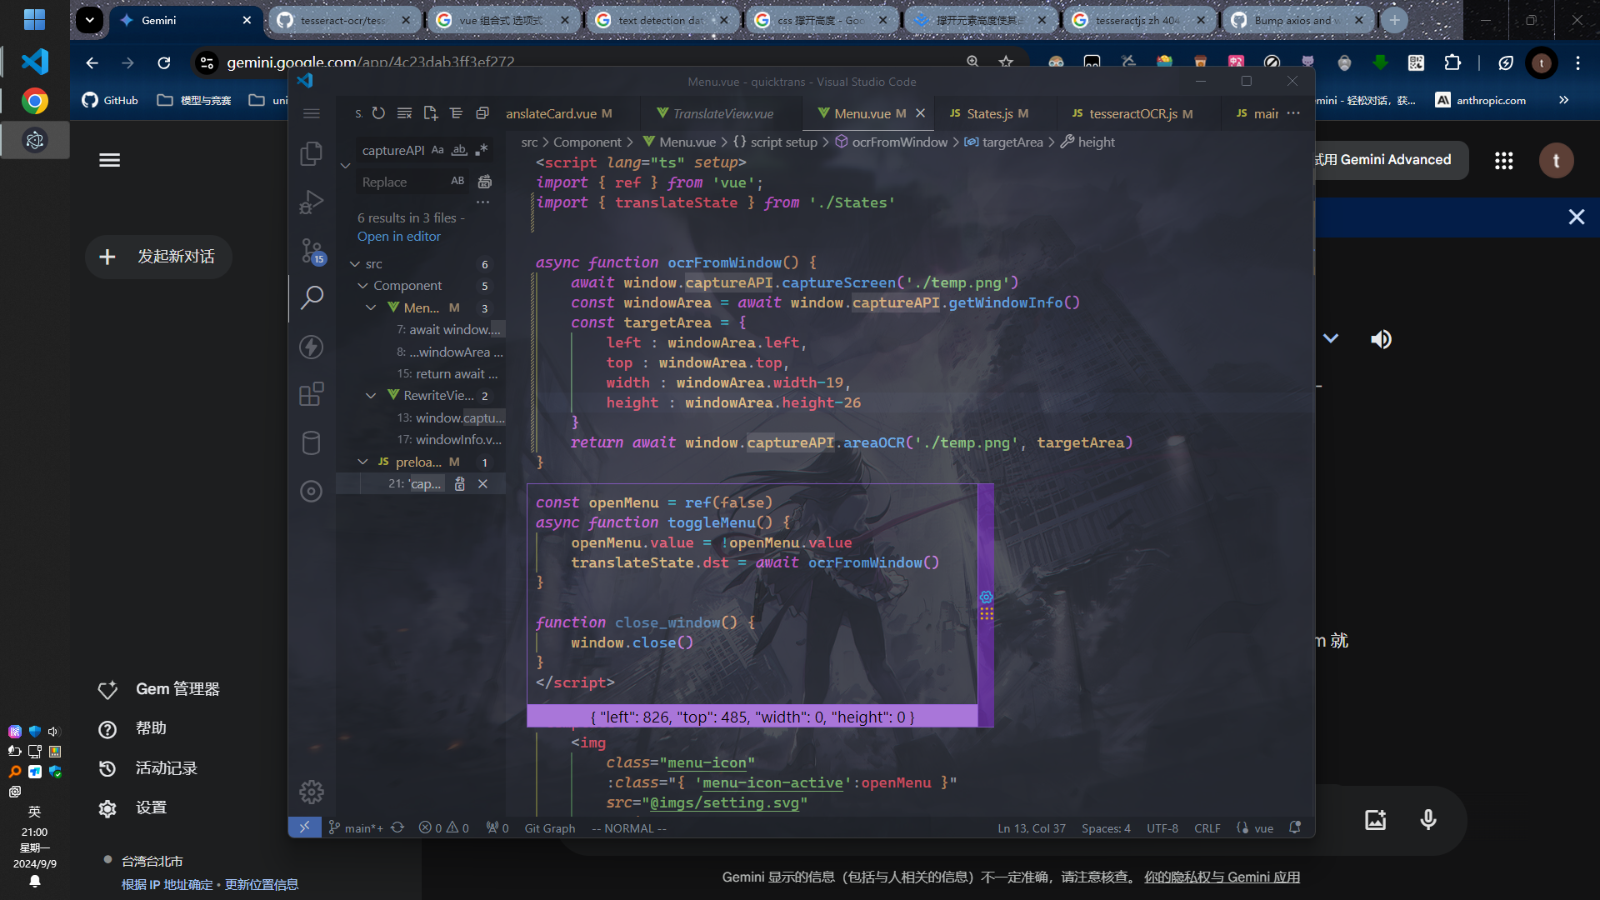
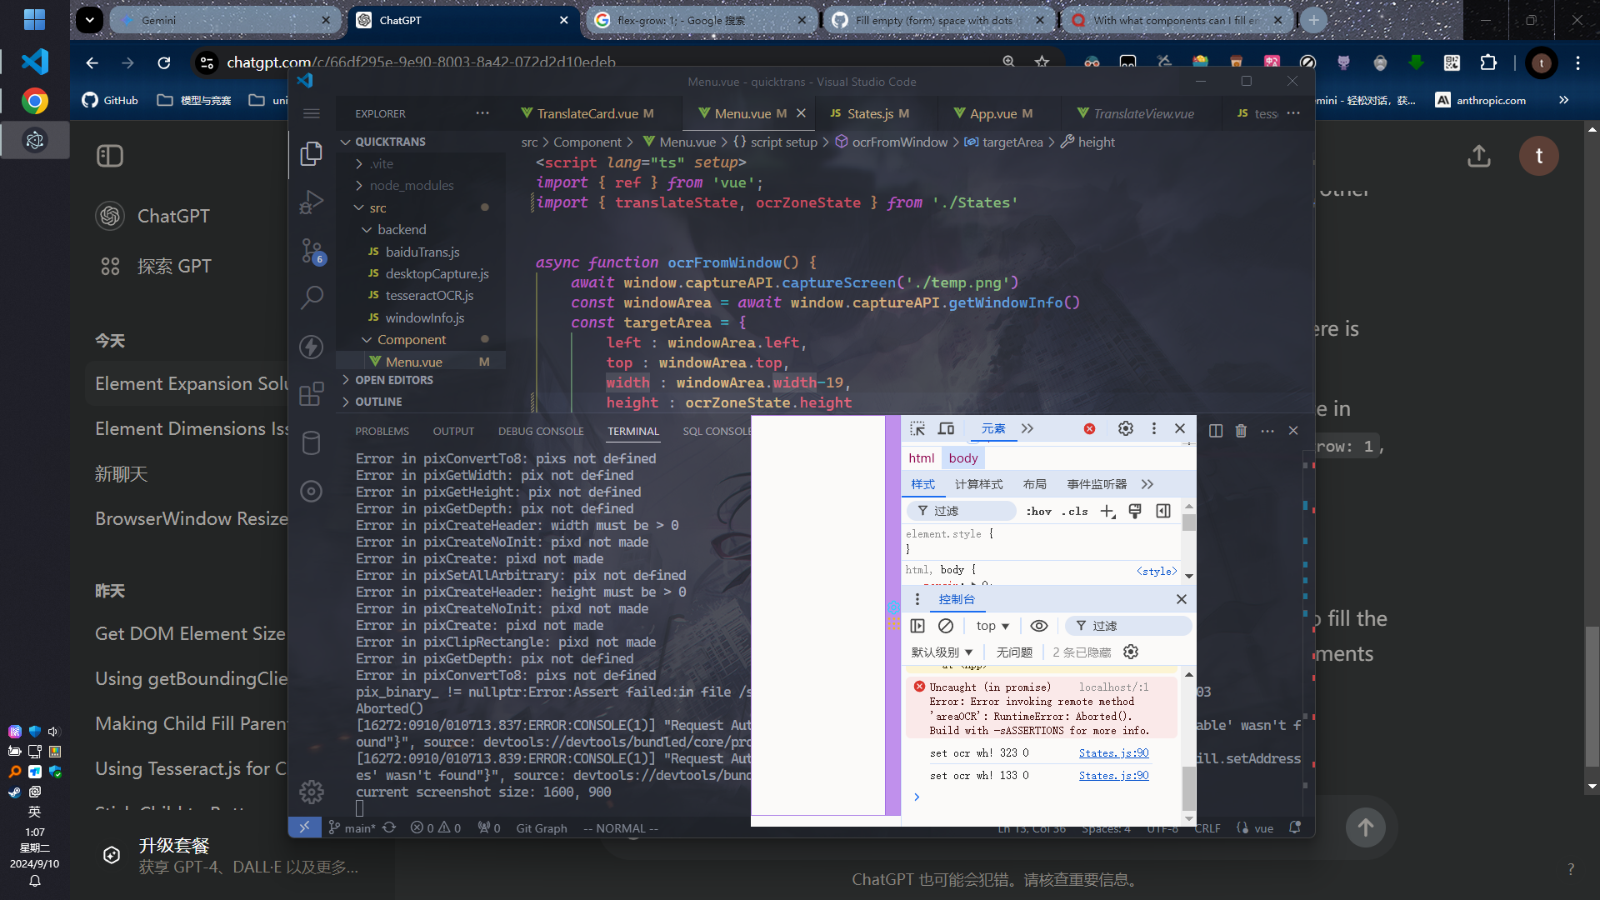
to another branch

diff --git a/src/Component/Menu.vue b/src/Component/Menu.vue
@@ -1,24 +1,25 @@
 <script lang="ts" setup>
 import { ref } from 'vue';
-import { translateState } from './States'
+import { translateState, ocrZoneState } from './States'
 
 
 async function ocrFromWindow() {
-    await window.captureAPI.captureScreen('./temp.png')
+    await window.captureAPI.captureScreen('./thumbnail.png')
     const windowArea = await window.captureAPI.getWindowInfo()
     const targetArea = {
         left : windowArea.left,
         top : windowArea.top,
-        width : windowArea.width-19,
-        height : windowArea.height-26
+        width : ocrZoneState.width,
+        height : ocrZoneState.height
     }
-    return await window.captureAPI.areaOCR('./temp.png', targetArea)
+    return await window.captureAPI.areaOCR('./thumbnail.png', targetArea)
 }
 
 const openMenu = ref(false)
 async function toggleMenu() {
     openMenu.value = !openMenu.value
     translateState.dst = await ocrFromWindow()
+    ocrZoneState.update()
 }
 
 function close_window() {

diff --git a/src/App.vue b/src/App.vue
@@ -1,13 +1,22 @@
 <script setup>
 import TranslateCard from './Component/TranslateCard.vue';
 import Menu from './Component/Menu.vue';
+import { onMounted } from 'vue';
+import { ocrZoneState } from './Component/States';
+
+onMounted(() => {
+  window.eventAPI.onWindowResize(() => {
+    ocrZoneState.update()
+  })
+  ocrZoneState.update() // Init for first time
+})
 
 </script>
 
 
 <template>
   <div class="main-page">
-    <TranslateCard></TranslateCard>
+    <TranslateCard class="translate-card"></TranslateCard>
     <div class="side-bar">
       <Menu class="setting"></Menu>
       <img class="drag-area" src="@imgs/drag-bar.png" />
@@ -20,7 +29,7 @@ import Menu from './Component/Menu.vue';
   display: flex;
   flex-direction: row;
   border: 0.1vh rgba(152, 98, 228, 0.73) solid;
-  min-height: 97vh;
+  height: 97vh;
 }
 .side-bar {
   display: flex;

diff --git a/src/Component/TranslateCard.vue b/src/Component/TranslateCard.vue
@@ -1,14 +1,11 @@
 <script lang="ts" setup>
-import { reactive, ref, watch, watchEffect } from 'vue';
 import { translateState } from './States';
-
-
 
 </script>
 
 <template>
     <div class="translate-card">
-        <div id="OCRZone" class="src-zone">  </div>
+        <div id="OCRZONE" class="src-zone"> </div>
         <div class="dst-zone"> {{ translateState.dst }} </div>
     </div>
 </template>
@@ -17,11 +14,13 @@ import { translateState } from './States';
 .translate-card {
     position: relative;
     width: 100%;
+    height: 100%;
+    display: flex;
+    flex-direction: column;
 }
 .src-zone {
-    position: absolute;
-    top: 0;
-    margin-bottom: 0;
+    flex-grow: 1;
+    overflow: auto;
 }
 .dst-zone {
     width: 100%;

diff --git a/src/Component/States.js b/src/Component/States.js
@@ -68,3 +68,26 @@ function detectLanguage(text) {
     
     return dominantLanguage;
 }
+
+
+export const ocrZoneState = reactive({
+    ocrZoneWidth: 0,
+    ocrZoneHeight: 0,
+
+    get width() { return this.ocrZoneWidth },
+    set width(val) { this.ocrZoneWidth = val },
+    get height() { return this.ocrZoneHeight },
+    set height(val) { this.ocrZoneHeight = val },
+
+    setWH(width, height) { 
+        this.width = width
+        this.height = height
+    },
+
+    update() {
+        const element = document.getElementById("OCRZONE")
+        this.setWH(element.offsetWidth, element.offsetHeight)
+        console.log(`set ocr wh! ${this.width} ${this.height}`)
+    }
+
+})

diff --git a/src/preload.js b/src/preload.js
@@ -22,6 +22,13 @@ contextBridge.exposeInMainWorld(
     {
         captureScreen: (img_path) => ipcRenderer.invoke("captureScreen", img_path),
         getWindowInfo: () => ipcRenderer.invoke("getWindowInfo"),
-        areaOCR: (file_path, area) => ipcRenderer.invoke("areaOCR", file_path, area)
+        areaOCR: (file_path, area) => ipcRenderer.invoke("areaOCR", file_path, area),
+    }
+)
+
+contextBridge.exposeInMainWorld(
+    'eventAPI',
+    {
+        onWindowResize: (updateCallback) => ipcRenderer.on("window-resize", (event) => updateCallback() )
     }
 )

diff --git a/src/main.js b/src/main.js
@@ -17,7 +17,7 @@ const createWindow = () => {
     webPreferences: {
       preload: path.join(__dirname, 'preload.js'),
     },
-    fullscreenable: false,
+    // fullscreenable: false,
     transparent: true
   });
 
@@ -27,6 +27,10 @@ const createWindow = () => {
   } else {
     mainWindow.loadFile(path.join(__dirname, `../renderer/${MAIN_WINDOW_VITE_NAME}/index.html`));
   }
+
+  mainWindow.on('resized', () => {
+    mainWindow.webContents.send('window-resize')
+  })
 
   // Open the DevTools.
   // mainWindow.webContents.openDevTools();

diff --git a/src/backend/tesseractOCR.js b/src/backend/tesseractOCR.js
@@ -4,7 +4,7 @@
 const { createWorker } = require('tesseract.js');
 
 let worker = undefined
-createWorker(['eng', 'chi_sim', 'jpn'])
+createWorker(['eng'])
     .then((newWorker) => worker=newWorker)
 
 // input: 
